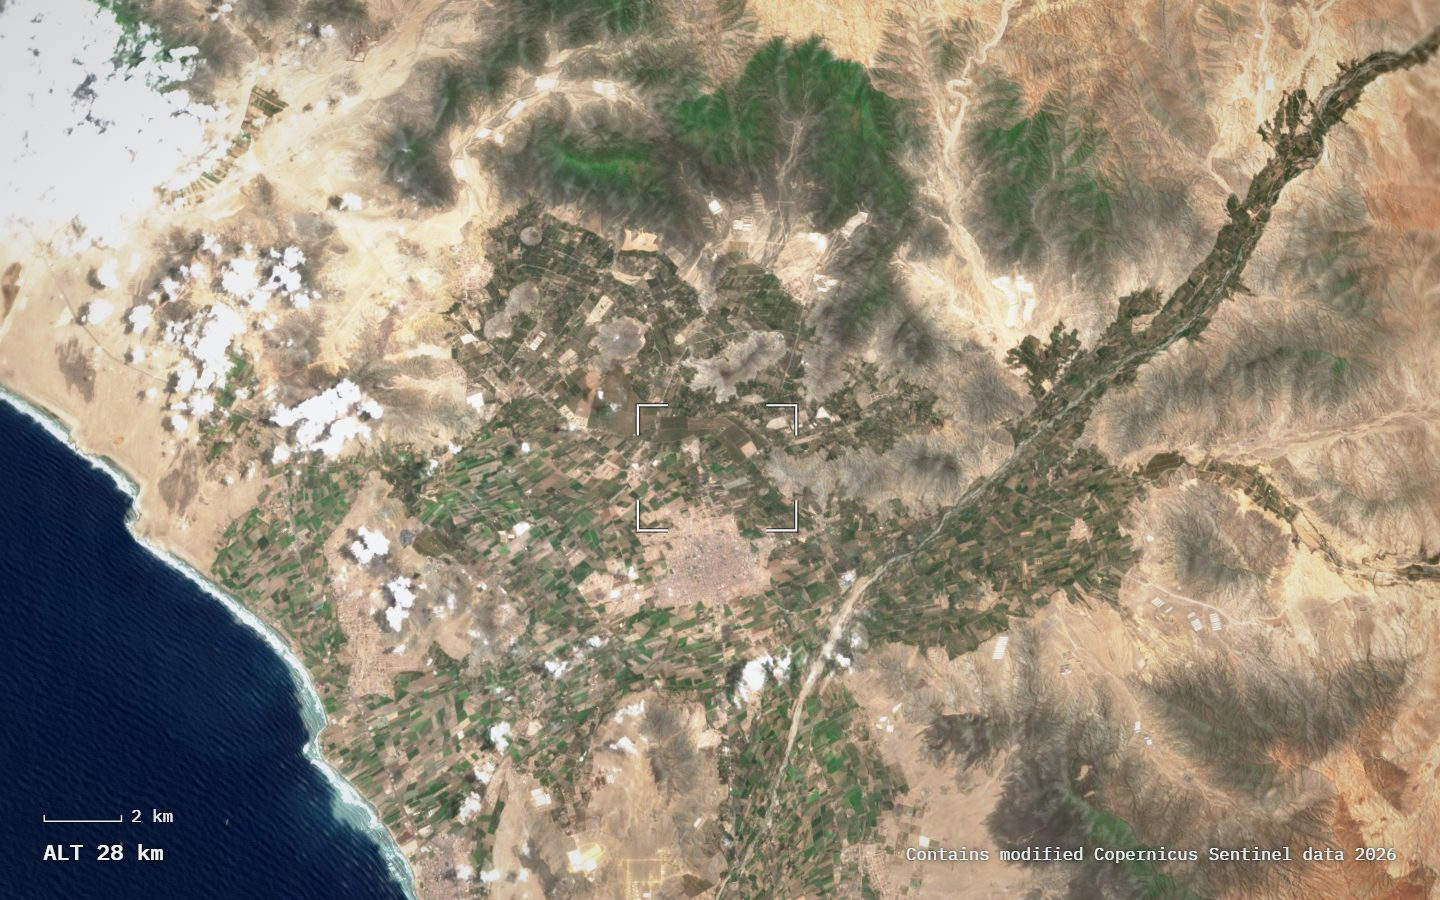
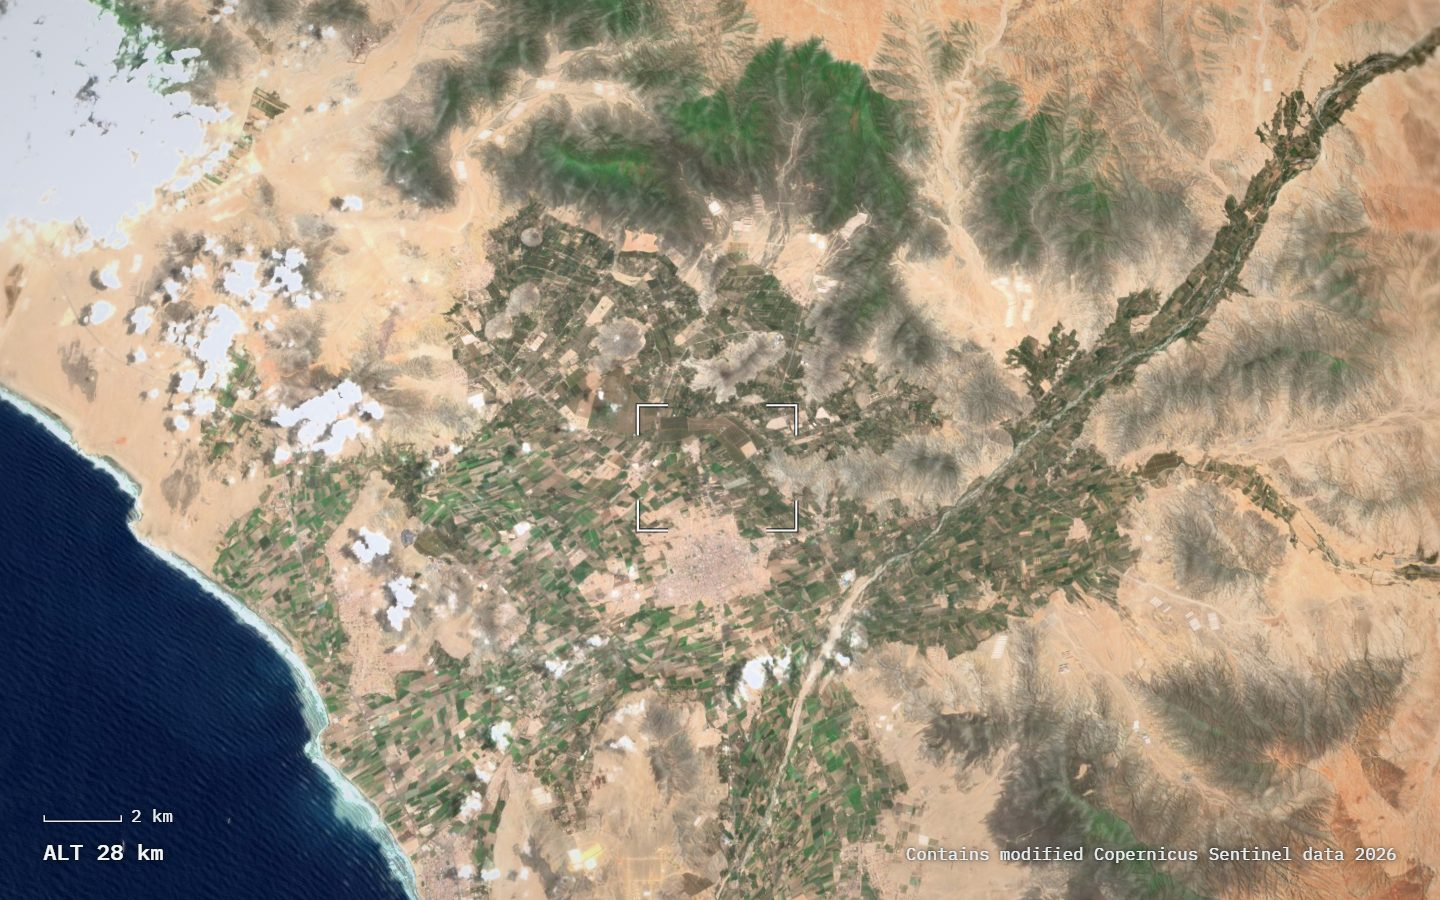
Globe: soft cloud veil, clear coast, orange sunrise with bloom, brighter rim, lit relief, label kept on screen

diff --git a/frontend/src/globe/shader.ts b/frontend/src/globe/shader.ts
@@ -31,7 +31,9 @@ uniform vec4 gP0, gP1, gP2, gP3, gP4;   // alpha, feather, gain, texture size (0
 uniform vec4 bCloud;                    // regional box shared by the cloud and night-lights plates
 uniform float uCloud, uNightR;
 uniform vec2 uCloudShift;               // cloud shadow offset in plate uv (towards the sun)
-uniform vec3 uClear;                    // clear-sky disc around the target: dlat, dlon (deg, relative), radius (deg)
+uniform vec3 uClear;                    // thinner cloud around the target: dlat, dlon (deg, relative), radius (deg)
+uniform vec2 uSunPx;                    // where the sun sits on screen (device px, origin bottom-left)
+uniform float uSunFlare;
 
 uniform vec3 uSun;                      // light direction on the ground, local frame
 uniform vec3 uSunVis;                   // where the sun is drawn, local frame
@@ -87,7 +89,8 @@ vec4 plate(sampler2D t, vec4 b, vec4 g, vec2 dll, vec4 base) {
     if (mag > 1.15) c = mix(c, texCR(t, uv, g.w), smoothstep(1.15, 1.8, mag));
   } else {
     c = texture(t, uv).rgb;
-    hp = lum(c) - lum(texture(t, uv, 3.2).rgb);
+    float m1 = lum(texture(t, uv, 3.2).rgb);
+    hp = lum(c) - m1 + .7 * (m1 - lum(texture(t, uv, 5.6).rgb));
   }
   return mix(base, vec4(c * g.z, hp), w);
 }
@@ -101,13 +104,20 @@ vec3 stars(vec3 d) {
   return vec3(.85, .9, 1.) * s * (.35 + .65 * fract(h * 91.7)) * tw;
 }
 
-vec3 sunGlow(float cs, float hit) {
+vec3 sunGlow(float cs, float hit, vec2 frag) {
   float ang = acos(clamp(cs, -1., 1.));
-  float a = ang / .021;
-  vec3 c = vec3(1., .97, .90) * smoothstep(1.25, .55, a) * 2.6 * (1. - hit);        // disc
-  c += vec3(1., .82, .56) * (1. / (1. + a * a * .50)) * mix(1.10, .60, hit);         // inner halo
-  c += vec3(1., .52, .22) * exp(-ang * 10.5) * mix(.66, .46, hit);                   // warm bloom
-  c += vec3(.90, .34, .12) * exp(-ang * 5.0) * mix(.085, .06, hit);                  // wide haze
+  float a = ang / .014;
+  vec3 c = vec3(1., .96, .82) * smoothstep(1.35, .5, a) * 6. * (1. - hit);           // white-hot core
+  c += vec3(1., .70, .26) * (1. / (1. + a * a * .30)) * mix(2.2, .85, hit);          // saturated inner halo
+  c += vec3(1., .42, .10) * exp(-ang * 10.5) * mix(.95, .60, hit);                   // orange bloom
+  c += vec3(.95, .26, .06) * exp(-ang * 4.6) * mix(.13, .085, hit);                  // ember haze
+  // flare: a thin streak along the limb and a few faint rays
+  vec2 d = (frag - uSunPx) / uF;
+  float r = length(d);
+  float streak = exp(-abs(d.y) * 110.) * exp(-abs(d.x) * 2.4) * .50 + exp(-abs(d.y) * 34.) * exp(-abs(d.x) * 4.5) * .22;
+  float th = atan(d.y, d.x);
+  float rays = pow(abs(cos(th * 3. + .5)), 60.) + .5 * pow(abs(cos(th * 2. - .35)), 110.);
+  c += vec3(1., .58, .22) * (streak + rays * exp(-r * 10.) * smoothstep(.0, .03, r) * .20) * uSunFlare * mix(1., .55, hit);
   return c * uSunAmt;
 }
 
@@ -120,7 +130,7 @@ void main() {
   float disc = b * b - uC2;
   float cs = dot(dir, uSunVis);
   float sunProx = pow(max(cs, 0.), 34.);
-  vec3 blue = vec3(.24, .50, 1.);
+  vec3 blue = vec3(.26, .54, 1.);
   vec3 warm = vec3(1., .58, .26);
   vec3 col;
 
@@ -130,11 +140,11 @@ void main() {
     float x = max(dmin - RE, 0.) / 26.;
     vec3 pm = normalize(b * dir - Cc);
     float litL = smoothstep(-.22, .18, dot(pm, uSun));
-    float rim = (exp(-x * 1.15) * 1.25 + exp(-x * .30) * .30) * step(0., b);
-    vec3 rimCol = mix(blue + vec3(.10, .12, 0.) * exp(-x * 2.2), warm * 1.25, clamp(sunProx * 1.3, 0., 1.));
+    float rim = (exp(-x * 1.05) * 1.9 + exp(-x * .26) * .50) * step(0., b);
+    vec3 rimCol = mix(blue + vec3(.42, .36, 0.) * exp(-x * 2.4), warm * 1.3, clamp(sunProx * 1.3, 0., 1.));
     col = vec3(.008, .013, .026) + stars(dir) * (1. - clamp(rim * 2., 0., 1.));
     col += rimCol * rim * (.10 + .90 * litL) * uShade;
-    col += sunGlow(cs, 0.);
+    col += sunGlow(cs, 0., frag);
   } else {
     float t = uC2 / (b + sqrt(disc));                // conjugate form: no cancellation near the ground
     vec3 H = uCl + t * dir;                          // hit point, km from the look-at point
@@ -160,14 +170,14 @@ void main() {
 
     // light: a soft terminator, warm at a low sun
     float mu = dot(N, uSun);
-    float lit = smoothstep(-.10, .30, mu);
+    float lit = smoothstep(-.06, .46, mu);
     float low = 1. - smoothstep(.04, .55, mu);
-    vec3 sunCol = mix(vec3(1.), vec3(1.08, .84, .62), low * uWarm);
-    vec3 amb = vec3(.050, .078, .135) * smoothstep(-.30, .10, mu);
+    vec3 sunCol = mix(vec3(1.), vec3(1.10, .83, .58), low * uWarm);
+    vec3 amb = vec3(.050, .082, .150) * smoothstep(-.30, .10, mu);
     // relief: the shaded-relief plates carry their own hillshade (lit from the north-west); a low sun deepens it
     float rl = g.a * uRelief * (.55 + .9 * low);
-    alb *= exp(rl * 3.4);
-    alb += rl * vec3(.50, .20, -.30) * .8;
+    alb *= exp(rl * 3.6);
+    alb += rl * vec3(.55, .20, -.34);
     alb = max(alb, 0.);
     // open water: Blue Marble's ocean is near black; give it the sky it reflects
     float water = smoothstep(-.02, .012, alb.b - alb.r) * (1. - smoothstep(.07, .17, lum(alb))) * uOcean;
@@ -178,12 +188,16 @@ void main() {
     vec2 uc = vec2((dlon - bCloud.x) / (bCloud.z - bCloud.x), (bCloud.w - dlat) / (bCloud.w - bCloud.y));
     float cw = inside(uc, .07) * uCloud;
     if (cw > .002) {
-      float clear = mix(.22, 1., smoothstep(uClear.z * .25, uClear.z, length(vec2((dlon - uClear.y) * uCosLat0, dlat - uClear.x))));
-      float cl = smoothstep(.10, 1., texture(tCloud, uc, .6).r) * cw * clear;
-      float sh = smoothstep(.10, 1., texture(tCloud, uc + uCloudShift, 1.).r) * cw * clear;
-      col *= 1. - .38 * sh * (1. - cl);
-      vec3 cc = (lit * mix(vec3(1.), vec3(1.06, .93, .80), low * uWarm) * .86 + amb * 2.4) * mix(.80, 1.04, cl);
-      col = mix(col, cc, smoothstep(.0, .9, cl) * .9);
+      // thin veil; thinner still in a band along the coast around the target, so the ground stays readable
+      vec2 cp = vec2((dlon - uClear.y) * uCosLat0, dlat - uClear.x);
+      float ac = dot(cp, vec2(.78, .62));               // + inland, - out to sea
+      float cd = length(vec2(dot(cp, vec2(-.62, .78)) / 3.4, ac < 0. ? ac * 2.4 : ac)) / uClear.z;
+      float clear = mix(.06, 1., smoothstep(.45, 1.25, cd));
+      float cl = smoothstep(.12, .95, texture(tCloud, uc, .8).r) * cw * clear * .66;
+      float sh = smoothstep(.12, .95, texture(tCloud, uc + uCloudShift, 1.6).r) * cw * clear * .66;
+      col *= 1. - .30 * sh * (1. - cl);
+      vec3 cc = (.30 + .70 * lit) * mix(vec3(1.), vec3(1.08, .92, .78), low * uWarm) * .98 + amb * 1.6;
+      col = mix(col, cc, cl);
     }
 
     // night lights in the twilight band and beyond
@@ -201,13 +215,16 @@ void main() {
     float haze = pow(1. - muV, 3.4) * uShade;
     vec3 hazeCol = mix(vec3(.36, .58, 1.) * .95, warm * 1.1, clamp(sunProx * 1.4 + pow(max(cs, 0.), 9.) * .35, 0., 1.)) * (.14 + .86 * lit);
     col = mix(col, hazeCol, clamp(haze * .92, 0., 1.));
-    col += hazeCol * pow(1. - muV, 8.) * .55 * uShade;
-    col += sunGlow(cs, 1.) * (.35 + .65 * uShade);
+    col += hazeCol * pow(1. - muV, 8.) * .80 * uShade;
+    col += sunGlow(cs, 1., frag) * (.35 + .65 * uShade);
   }
 
   // shoulder, vignette, dither
-  vec3 k = vec3(.82);
-  col = mix(col, k + (1. - k) * (1. - exp(-(col - k) / (1. - k))), step(k, col));
+  float mx = max(col.r, max(col.g, col.b));          // on the brightest channel, so the sun keeps its orange
+  if (mx > .82) {
+    vec3 hue = col * ((.82 + .18 * (1. - exp(-(mx - .82) / .18))) / mx);
+    col = mix(hue, min(col, vec3(1.)), smoothstep(1.3, 3.2, mx));          // only the core burns to white
+  }
   vec2 q = frag / uRes - .5;
   col *= 1. - .30 * dot(q, q);
   col += (hash(frag + fract(uTime) * 61.) - .5) / 255.;

diff --git a/frontend/src/globe/overlay.ts b/frontend/src/globe/overlay.ts
@@ -51,6 +51,8 @@ export class Overlay {
   readonly canvas: HTMLCanvasElement;
   private ctx: CanvasRenderingContext2D;
   private W = 1; private H = 1; private dpr = 1;
+  /** Horizontal extent of the canvas that is actually inside the viewport (CSS px). */
+  private safeL = 0; private safeR = 1;
   /** When the reticle starts snapping onto the target (ms); Infinity = still searching. */
   private lockAt = Infinity;
 
@@ -64,6 +66,11 @@ export class Overlay {
 
   resize(W: number, H: number, dpr: number) {
     this.W = W; this.H = H; this.dpr = dpr;
+    // the host can be wider than what the visitor sees (page overflow on a phone): keep text inside the visible part
+    const r = this.canvas.getBoundingClientRect();
+    const vw = Math.min(document.documentElement.clientWidth || W, window.visualViewport?.width ?? Infinity, window.innerWidth || Infinity);
+    this.safeL = Math.max(0, -r.left);
+    this.safeR = Math.max(this.safeL + 1, Math.min(W, vw - r.left));
     this.canvas.width = Math.max(1, Math.round(W * dpr));
     this.canvas.height = Math.max(1, Math.round(H * dpr));
   }
@@ -108,6 +115,7 @@ export class Overlay {
     const cam = f.cam, tg = f.target;
     const ts = project(cam, tg.lat, tg.lon);
     const small = W < 620;
+    const sL = this.safeL, sR = this.safeR;
 
     // ---- field outline: prints on along its perimeter
     let bw = 0, bh = 0, bcx = ts.x, bcy = ts.y;
@@ -171,14 +179,16 @@ export class Overlay {
       if (la > 0.004 && tg.label) {
         const name = (f.lang === 'es' && tg.labelEs) || tg.label;
         const coords = formatCoords(tg.lat, tg.lon, f.lang);
-        const s1 = small ? 14 : clamp(W * 0.0145, 17, 21), s2 = s1 * 0.86;
-        const tw = Math.max(this.measure(name, s1), this.measure(coords, s2));
-        const m = small ? 16 : 28;
+        const m = small ? 20 : 28;
+        let s1 = small ? 13.5 : clamp(W * 0.0145, 17, 21), s2 = s1 * 0.86;
+        let tw = Math.max(this.measure(name, s1), this.measure(coords, s2));
+        const room = sR - sL - 2 * m - 30;
+        if (tw > room) { const k = Math.max(0.7, room / tw); s1 *= k; s2 *= k; tw = Math.max(this.measure(name, s1), this.measure(coords, s2)); }
         let ex = cx + rw * 0.36, ey = cy - rh * 0.76;
-        ex = Math.min(ex, W - m - tw - 18);
-        ex = Math.max(ex, m);
+        ex = Math.min(ex, sR - m - tw - 30);
+        ex = Math.max(ex, sL + m);
         if (ey - s1 * 2.6 < m) ey = cy + rh * 0.76 + s1 * 2.6;       // no room above: hang the label below
-        const shelf = tw + 18;
+        const shelf = tw + 24;
         const grow = outCubic(since / 420), shelfGrow = outCubic((since - 260) / 380);
         const px = cx - rw * 0.06, py = cy + rh * 0.02;
         this.hair(() => {
@@ -203,12 +213,12 @@ export class Overlay {
       const m = clamp(W * 0.03, 16, 44), mb = clamp(H * 0.045, 18, 44);
       const sAlt = clamp(W * 0.0155, 14, 23), sCr = Math.max(11, sAlt * 0.78);
       const alt = formatAlt(f.altitudeKm);
-      const stacked = this.measure(alt, sAlt, 500) + this.measure(f.credit, sCr) + 36 > W - 2 * m;
+      const stacked = this.measure(alt, sAlt, 500) + this.measure(f.credit, sCr) + 36 > sR - sL - 2 * m;
       const yBase = H - mb, yAlt = stacked ? yBase - sCr - 12 : yBase;
-      this.text(alt, m, yAlt, sAlt, 1, 'left', 500);
-      this.text(f.credit, W - m, yBase, sCr, 0.92, 'right');
+      this.text(alt, sL + m, yAlt, sAlt, 1, 'left', 500);
+      this.text(f.credit, sR - m, yBase, sCr, 0.92, 'right');
       if (f.scaleBarPx > 8) {
-        const y = yAlt - sAlt - 16, x = m + 1, w = f.scaleBarPx;
+        const y = yAlt - sAlt - 16, x = sL + m + 1, w = f.scaleBarPx;
         this.hair(() => {
           c.moveTo(x, y - 6); c.lineTo(x, y); c.lineTo(x + w, y); c.lineTo(x + w, y - 6);
         }, 1.5, 0.95, 2.6);

diff --git a/frontend/src/globe/renderer.ts b/frontend/src/globe/renderer.ts
@@ -5,7 +5,7 @@ import {
   Mesh, NoColorSpace, OrthographicCamera, RawShaderMaterial, RepeatWrapping, RGBAFormat, Scene, Texture, Vector2,
   Vector3, Vector4, WebGLRenderer, type IUniform,
 } from 'three';
-import { groundAt } from './camera';
+import { groundAt, projectDir } from './camera';
 import { screenKm, smooth, type DiveFrame } from './dive';
 import manifest from './plates.json';
 import { FRAG, PLATE_SLOTS, VERT } from './shader';
@@ -64,6 +64,7 @@ export class GlobeRenderer {
       uC2: { value: 1 }, uSinLat0: { value: 0 }, uCosLat0: { value: 1 }, uLat0: { value: 0 }, uLon0: { value: 0 },
       tWorld: tex(), tNight: tex(), tNightR: tex(), tCloud: tex(),
       bCloud: v4(), uCloud: { value: 0 }, uNightR: { value: 0 }, uCloudShift: { value: new Vector2() }, uClear: { value: new Vector3() },
+      uSunPx: { value: new Vector2() }, uSunFlare: { value: 0 },
       uSun: { value: new Vector3(0, 0, 1) }, uSunVis: { value: new Vector3(0, 1, 0) },
       uSunAmt: { value: 1 }, uExpo: { value: 1 }, uShade: { value: 1 }, uRelief: { value: 1 }, uWarm: { value: 1 }, uOcean: { value: 1 }, uTime: { value: 0 },
     };
@@ -186,9 +187,12 @@ export class GlobeRenderer {
     const az = f.sunAz * D2R, boxDeg = manifest.regional.box[2] - manifest.regional.box[0];
     const shadowKm = Math.min(26, Math.max(4, 3.2 / Math.tan(Math.max(4, f.sunEl) * D2R)));
     (u.uCloudShift.value as Vector2).set((Math.sin(az) * shadowKm) / 111.19 / boxDeg, (-Math.cos(az) * shadowKm) / 111.19 / boxDeg);
-    (u.uClear.value as Vector3).set(target.lat - cam.lat, target.lon - cam.lon, 2.6);
+    (u.uClear.value as Vector3).set(target.lat - cam.lat, target.lon - cam.lon, 3.0);
     (u.uSun.value as Vector3).fromArray(f.sun); (u.uSunVis.value as Vector3).fromArray(f.sunVis);
     u.uSunAmt.value = f.sunAmt; u.uExpo.value = f.expo; u.uShade.value = f.shade; u.uRelief.value = f.relief; u.uWarm.value = f.warm; u.uOcean.value = f.relief;
+    const sp = projectDir(cam, f.sunVis);
+    (u.uSunPx.value as Vector2).set(sp.x * pr, (cam.H - sp.y) * pr);
+    u.uSunFlare.value = sp.z > 0.05 ? 1 : 0;
     u.uTime.value = time % 1000;
     this.gl.render(this.scene, this.camera);
   }

diff --git a/frontend/src/globe/index.ts b/frontend/src/globe/index.ts
@@ -144,7 +144,11 @@ export function createGlobe(host: HTMLElement, opts: GlobeOptions): GlobeHandle 
     schedule();
     requestAnimationFrame(() => { if (!disposed) opts.onReady?.(); });
   });
-  if (document.fonts) document.fonts.load('500 16px "IBM Plex Mono"').then(() => { dirty = true; }, () => undefined);
+  if (document.fonts) {
+    const again = () => { dirty = true; };
+    document.fonts.load('400 16px "IBM Plex Mono"').then(again, again);
+    document.fonts.load('500 16px "IBM Plex Mono"').then(again, again);
+  }
 
   function teardownLive() {
     if (raf) cancelAnimationFrame(raf);

diff --git a/frontend/src/globe/still.ts b/frontend/src/globe/still.ts
@@ -24,7 +24,12 @@ export class StillView {
     this.target = opts.target;
     this.overlay = opts.overlay === false ? null : new Overlay(root);
     this.show();
-    if (document.fonts) document.fonts.load('500 16px "IBM Plex Mono"').then(() => this.draw(), () => undefined);
+    if (document.fonts) {
+      const again = () => this.draw();
+      document.fonts.load('400 16px "IBM Plex Mono"').then(again, again);
+      document.fonts.load('500 16px "IBM Plex Mono"').then(again, again);
+      document.fonts.ready.then(again, again);
+    }
   }
 
   private pick(): StillDef | undefined {

diff --git a/frontend/src/globe/dive.ts b/frontend/src/globe/dive.ts
@@ -109,7 +109,7 @@ export function diveFrame(inp: DiveInput, creep = true): DiveFrame {
     sun: dirOf(s.az, sunEl), sunVis: dirOf(s.az, s.elVis + (sunEl - SUN_EL0) * 0.8),
     sunAz: s.az, sunEl,
     sunAmt: 1 - smooth(0.25, 0.6, p),
-    expo: mix(1.5, 1.22, rise),
+    expo: mix(1.85, 1.22, rise),
     shade: smooth(Math.log(25), Math.log(300), Math.log(altK)),
     relief: smooth(Math.log(40), Math.log(260), Math.log(altK)),
     warm: 1 - smooth(0.05, 0.7, p),

diff --git a/frontend/public/globe/CREDITS.md b/frontend/public/globe/CREDITS.md
@@ -20,11 +20,18 @@ followed by the parameters listed per file.
 |---|---|---|---|
 | `world-bmng.jpg` (4096×2048) | Blue Marble: Next Generation, shaded relief (`BlueMarble_ShadedRelief`) | `&LAYERS=BlueMarble_ShadedRelief&BBOX=-180,-90,180,90&WIDTH=4096&HEIGHT=2048&FORMAT=image/jpeg` | none (file as served) |
 | `world-bmng-lo.jpg` (1024×512) | same | same | downscaled, for the first frame |
-| `andes-bmng.jpg` (2560×2560) | same | `&LAYERS=BlueMarble_ShadedRelief&BBOX=-93,-24,-61,8&WIDTH=2560&HEIGHT=2560&FORMAT=image/png` | JPEG re-encode |
-| `coast-bmng.jpg` (2048×2048) | same | `&LAYERS=BlueMarble_ShadedRelief&BBOX=-81.2061,-15.4729,-73.2061,-7.4729&WIDTH=2048&HEIGHT=2048&FORMAT=image/png` | JPEG re-encode |
+| `andes-bmng.jpg` (2560×2560) | same | `&LAYERS=BlueMarble_ShadedRelief&BBOX=-93,-24,-61,8&WIDTH=2560&HEIGHT=2560&FORMAT=image/png` | Lima cloud residual replaced (see below), JPEG re-encode |
+| `coast-bmng.jpg` (2048×2048) | same | `&LAYERS=BlueMarble_ShadedRelief&BBOX=-81.2061,-15.4729,-73.2061,-7.4729&WIDTH=2048&HEIGHT=2048&FORMAT=image/png` | Lima cloud residual replaced (see below), JPEG re-encode |
 | `world-night.jpg` (2048×1024) | VIIRS Black Marble night lights (`VIIRS_Black_Marble`) | `&LAYERS=VIIRS_Black_Marble&BBOX=-180,-90,180,90&WIDTH=4096&HEIGHT=2048&FORMAT=image/jpeg` | downscaled |
 | `andes-night.jpg` (1536×1536) | same | `&LAYERS=VIIRS_Black_Marble&BBOX=-93,-24,-61,8&WIDTH=2048&HEIGHT=2048&FORMAT=image/png` | downscaled |
-| `andes-clouds-viirs-20261006.jpg` (1536×1536, greyscale) | VIIRS / Suomi NPP corrected reflectance, true colour, 2026-10-06 (`VIIRS_SNPP_CorrectedReflectance_TrueColor`) | `&LAYERS=VIIRS_SNPP_CorrectedReflectance_TrueColor&TIME=2026-10-06&BBOX=-93,-24,-61,8&WIDTH=2048&HEIGHT=2048&FORMAT=image/png` | cloud opacity derived from the real image (bright, unsaturated pixels), downscaled |
+| `andes-clouds-viirs-20261006.jpg` (1024×1024, greyscale) | VIIRS / Suomi NPP corrected reflectance, true colour, 2026-10-06 (`VIIRS_SNPP_CorrectedReflectance_TrueColor`) | `&LAYERS=VIIRS_SNPP_CorrectedReflectance_TrueColor&TIME=2026-10-06&BBOX=-93,-24,-61,8&WIDTH=2048&HEIGHT=2048&FORMAT=image/png` | cloud opacity derived from the real image (bright, unsaturated pixels), blurred and downscaled so it draws as a soft veil |
+
+Blue Marble carries a baked-in cloud residual over Lima (a white patch on the coast, about 60 km south-east
+of the target). In `andes-bmng.jpg` and `coast-bmng.jpg` only those white pixels, inside the box
+`-77.45,-12.55,-76.65,-11.65`, are replaced with the NASA/USGS Landsat WELD annual true-colour composite
+(public domain; GIBS layer `Landsat_WELD_CorrectedReflectance_TrueColor_Global_Annual`, same WMS endpoint,
+`&BBOX=<that box snapped to the plate grid>&FORMAT=image/png`), gain-matched to the surrounding Blue Marble
+land. Andean snow and everything else is untouched. `world-bmng.jpg` is not patched.
 
 Licence: NASA imagery is not copyrighted and is free to reuse with credit
 (https://www.earthdata.nasa.gov/engage/open-data-services-software-policies/data-use-guidance).
@@ -74,5 +81,5 @@ still "Contains modified Copernicus Sentinel data 2026".
   not an ephemeris position for a date. Its elevation rises with the dive.
 - Relief contrast at orbit comes from the shaded relief already present in the Blue Marble plates,
   deepened under the low sun. The ocean at orbit is tinted towards navy; Blue Marble's own ocean is near black.
-- Cloud cover is thinned in a disc around the target so the reticle stays readable, and fades out below
-  about 300 km altitude.
+- Cloud cover is drawn thin (at most about two-thirds opaque) and thinned further in a band along the coast
+  around the target so the ground stays readable; it fades out below about 300 km altitude.
